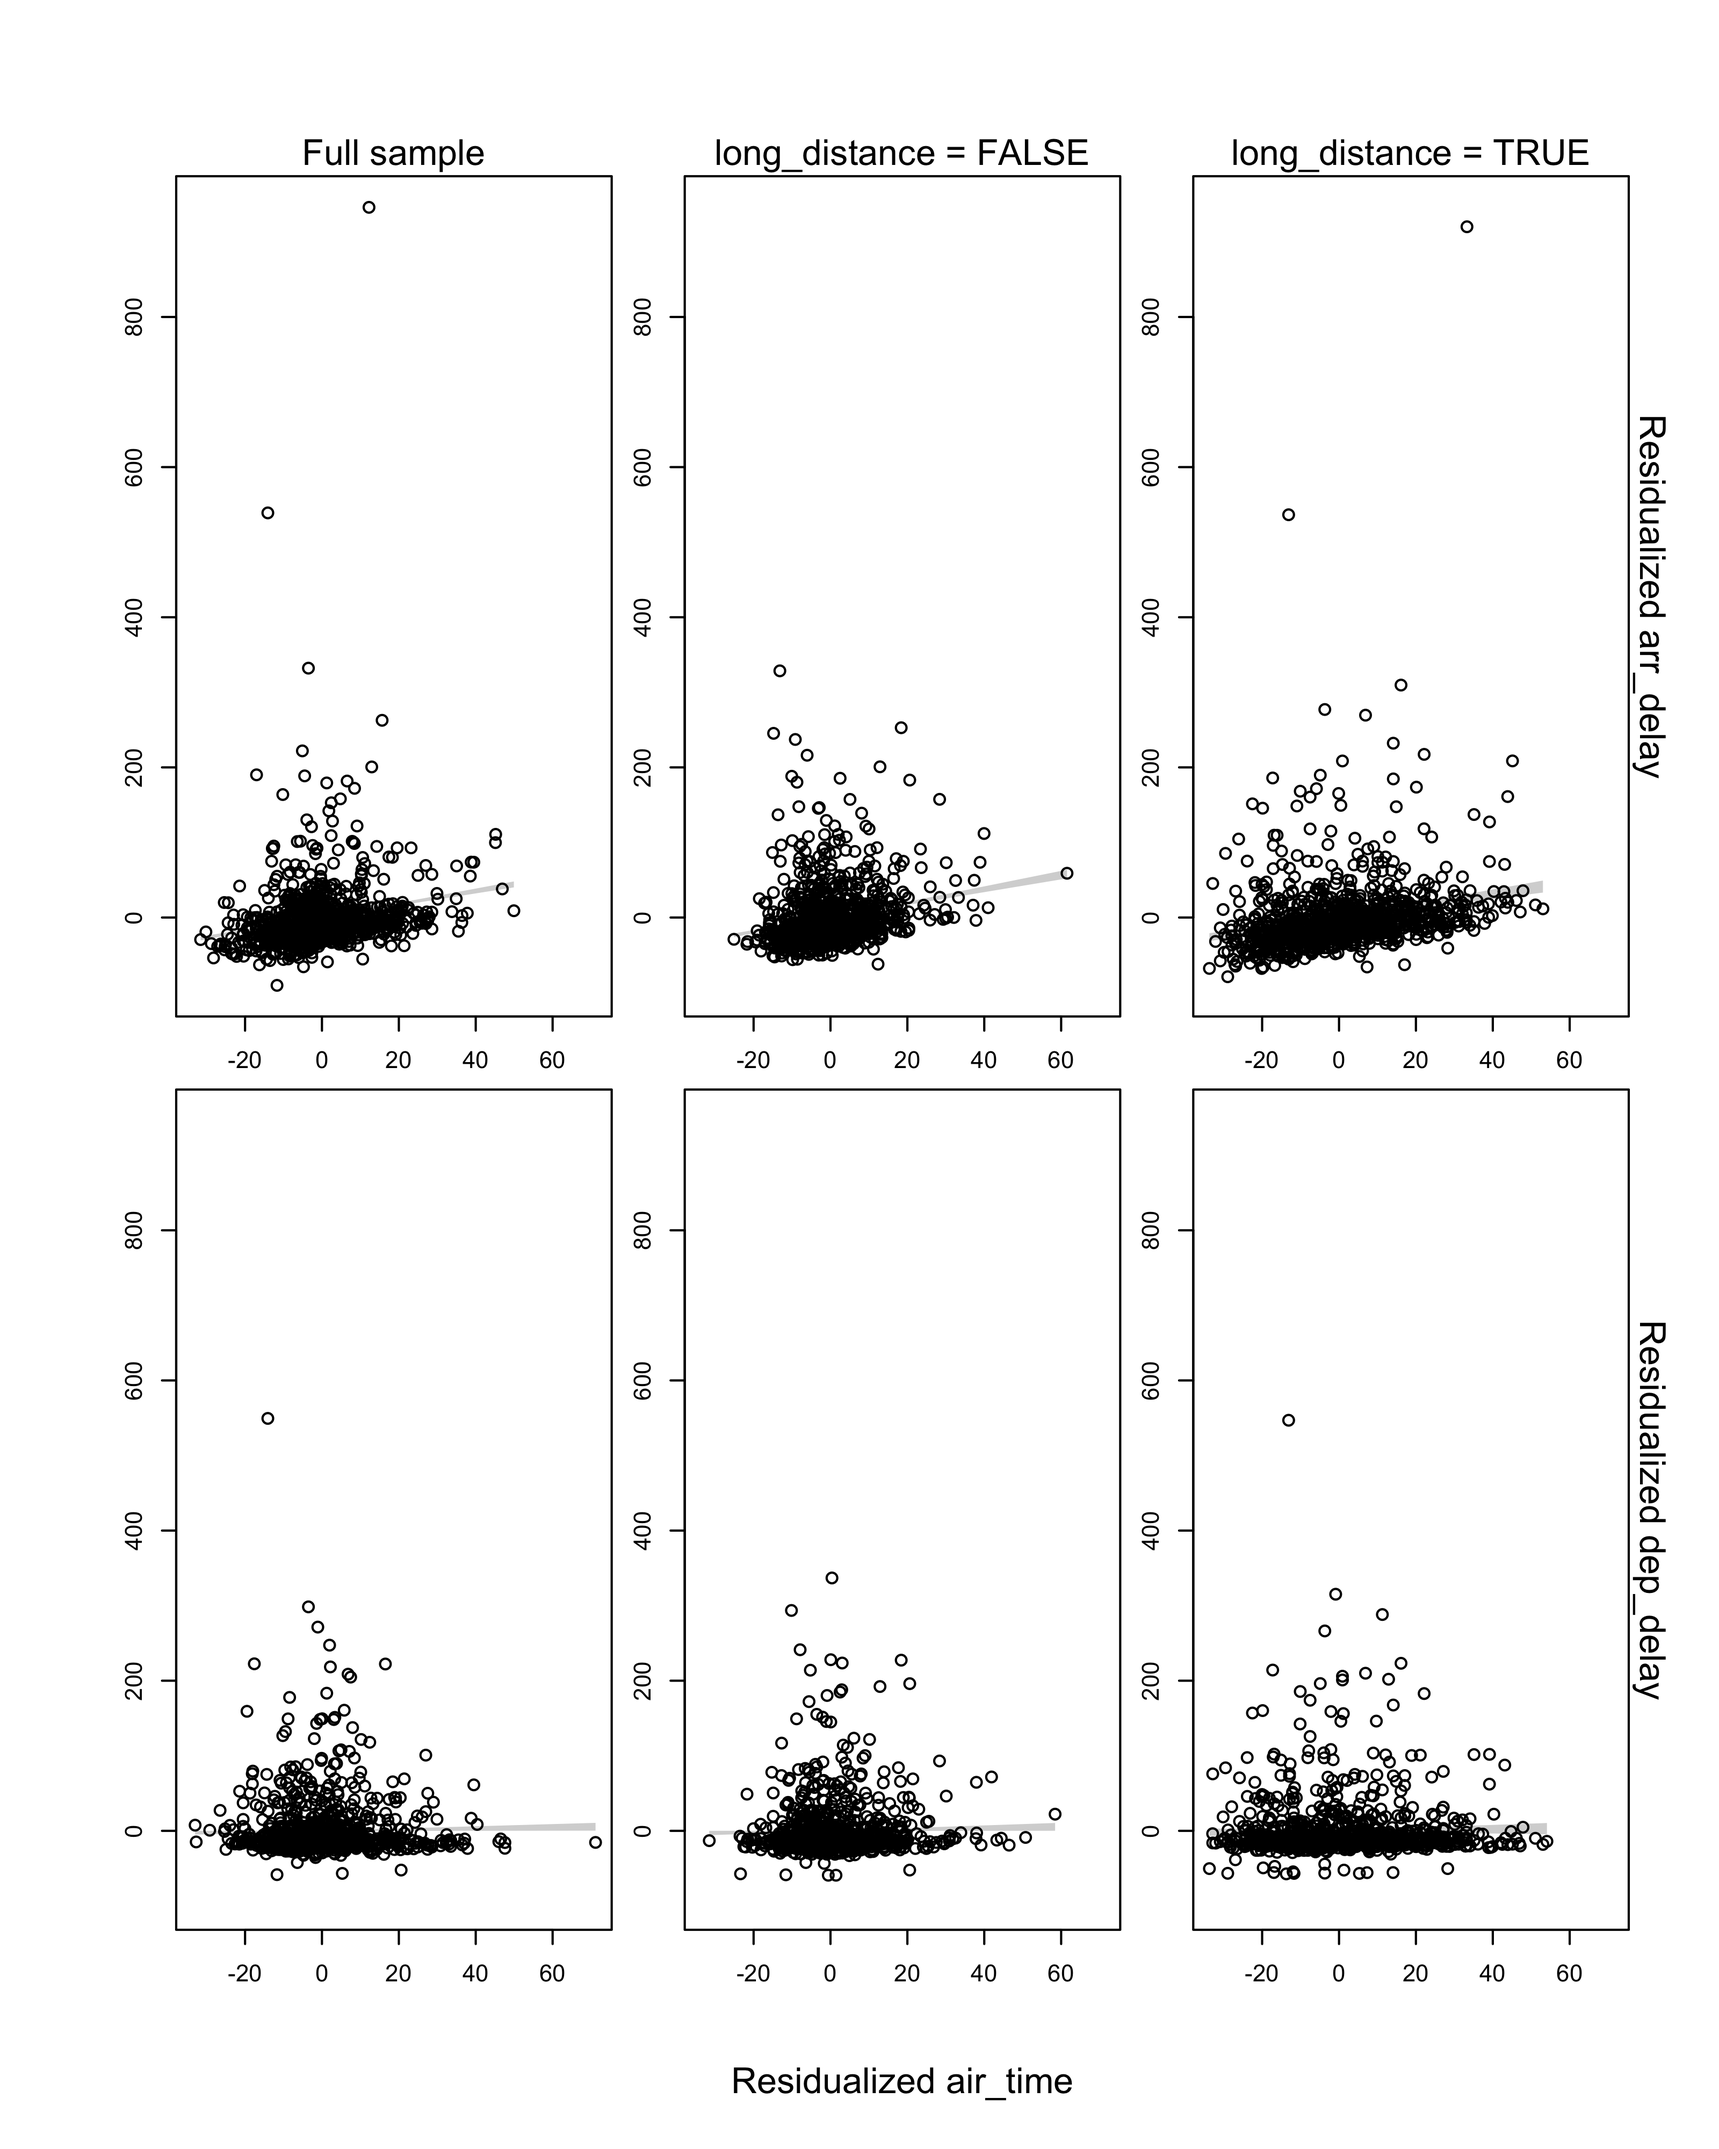
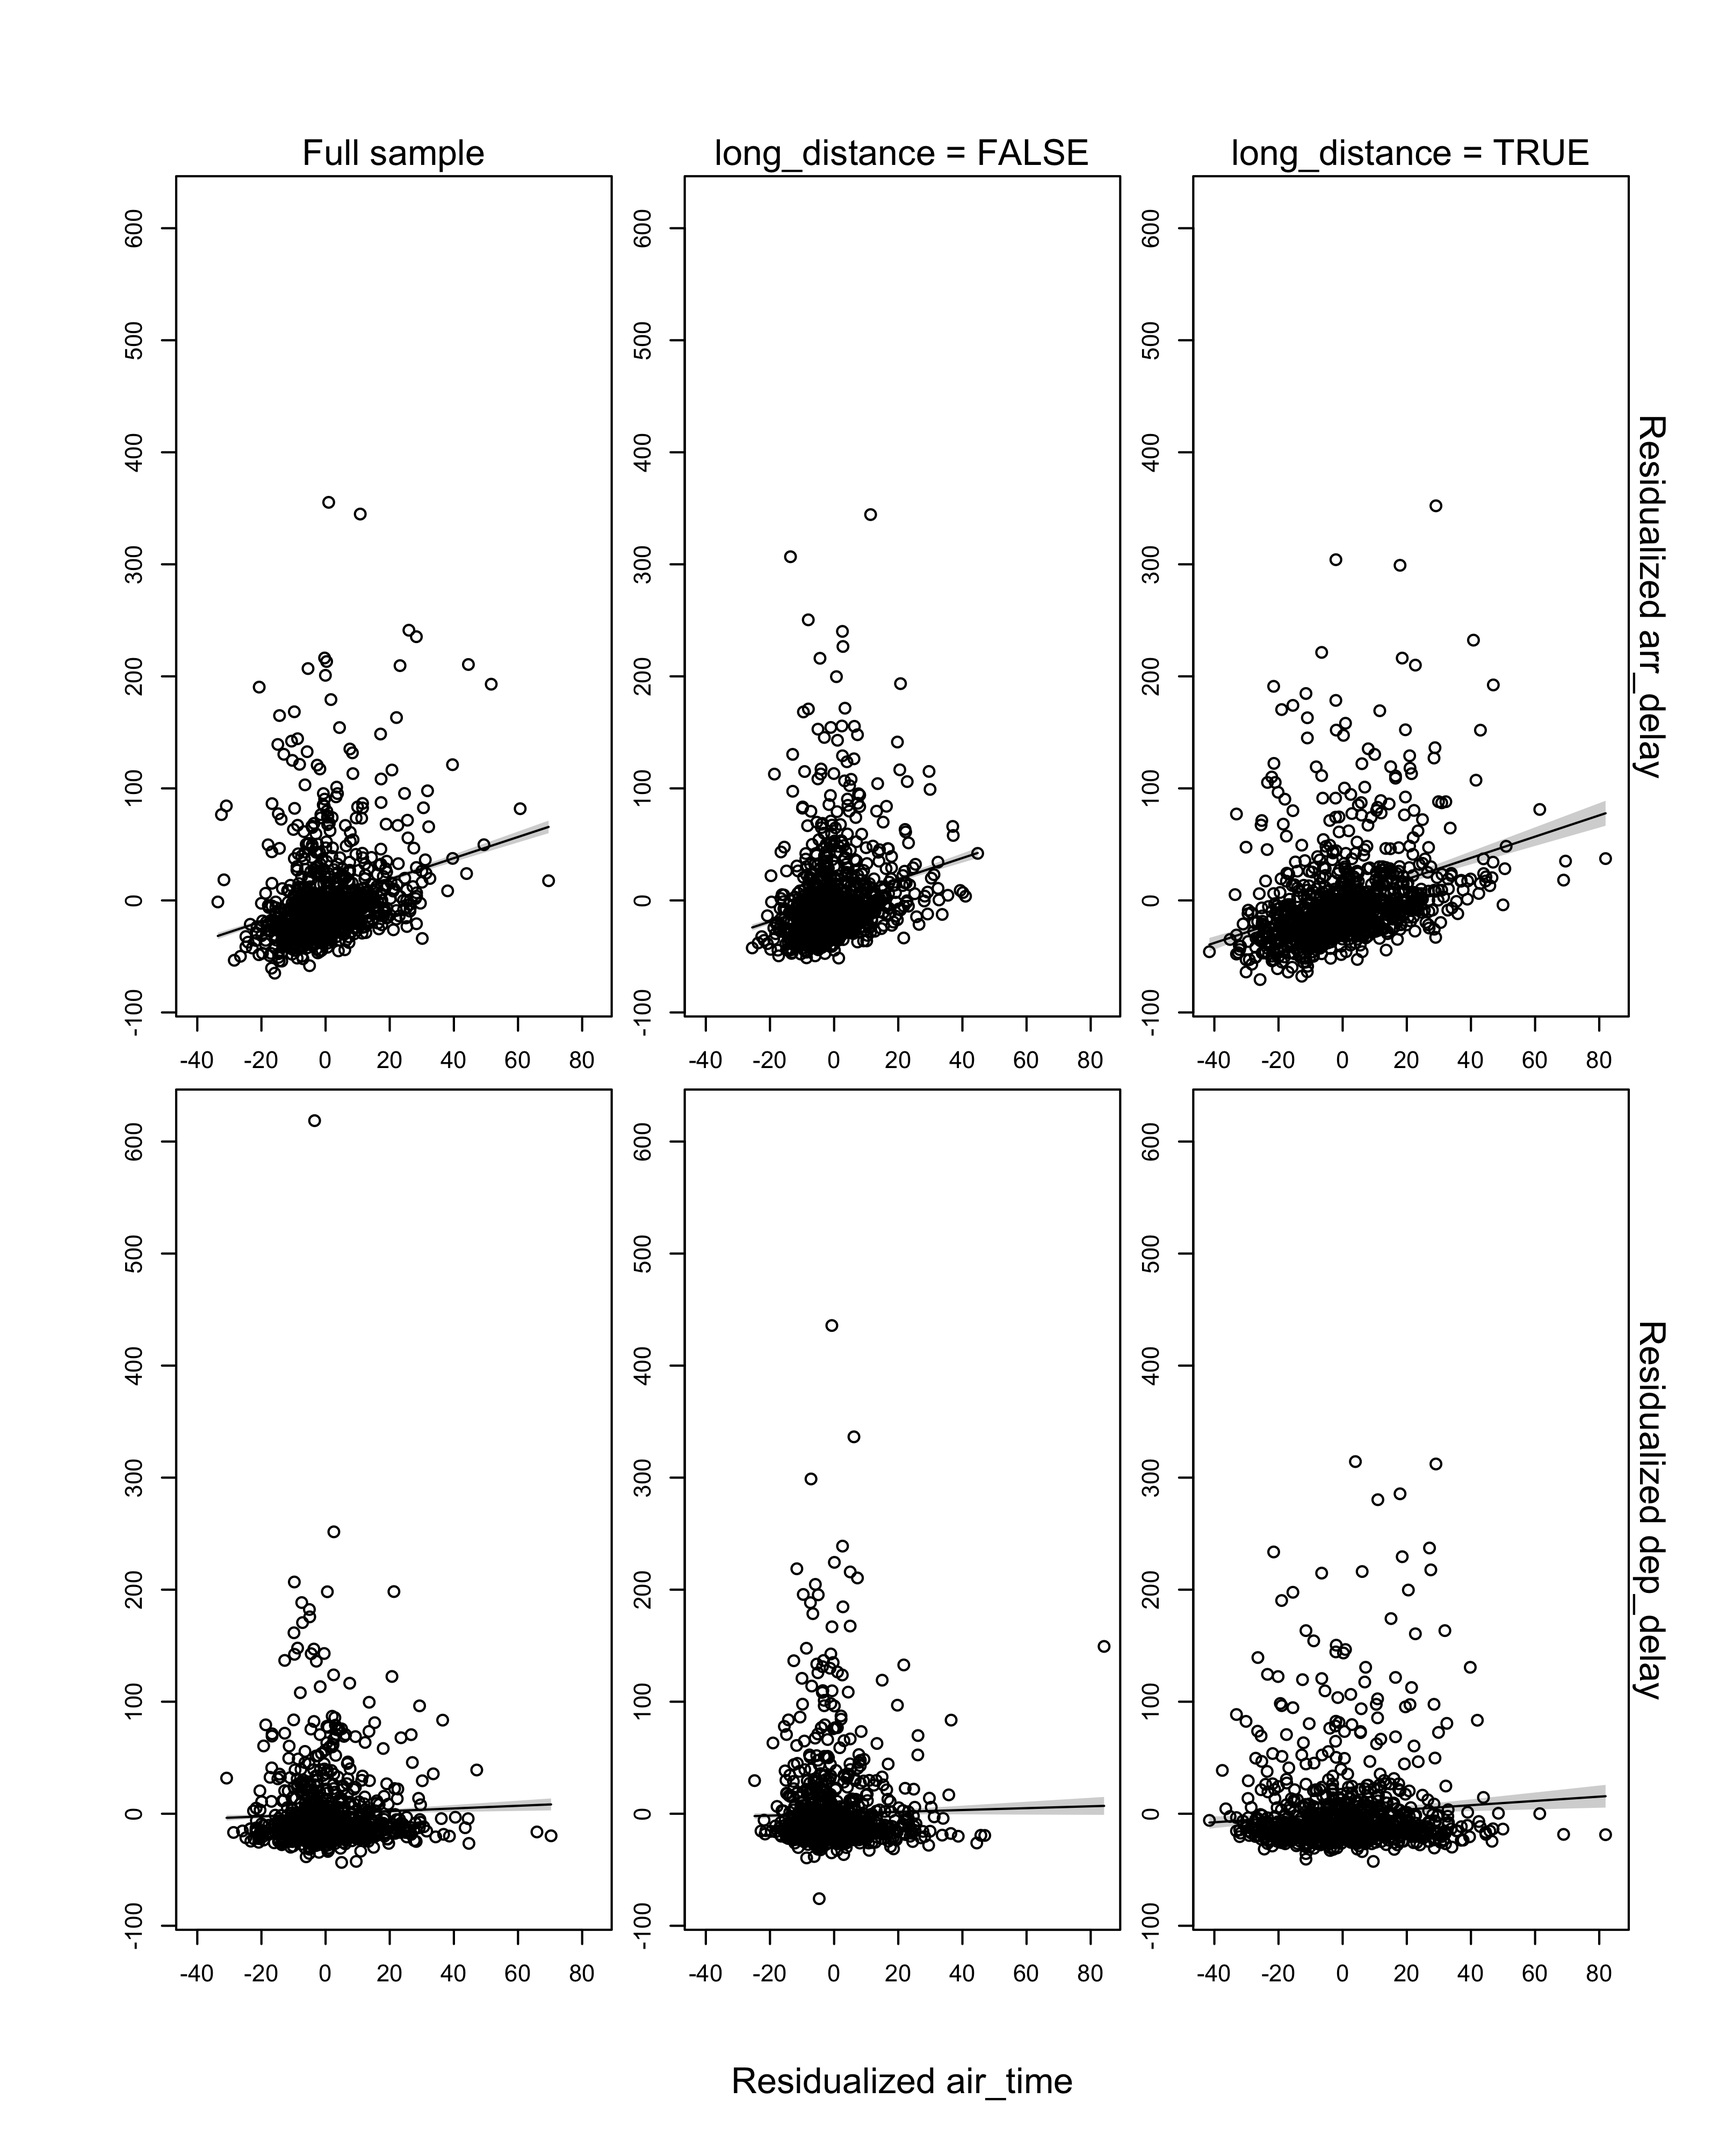
Base r, add back in line of best fit

diff --git a/README.md b/README.md
@@ -78,16 +78,16 @@ feols(
   data = sample, subset = ~long_distance, cluster = ~origin
 )
 #> OLS estimation, Dep. Var.: dep_delay
-#> Observations: 1,769 
+#> Observations: 1,723 
 #> Subset: long_distance 
-#> Fixed-effects: origin: 2,  dest: 15
+#> Fixed-effects: origin: 2,  dest: 14
 #> Standard-errors: Clustered (origin) 
-#>          Estimate Std. Error  t value Pr(>|t|) 
-#> air_time 0.054298   0.161423 0.336374  0.79343 
+#>          Estimate Std. Error t value Pr(>|t|)    
+#> air_time 0.190664   0.021643 8.80955 0.071957 .  
 #> ---
 #> Signif. codes:  0 '***' 0.001 '**' 0.01 '*' 0.05 '.' 0.1 ' ' 1
-#> RMSE: 45.1     Adj. R2: 0.009314
-#>              Within R2: 3.622e-4
+#> RMSE: 41.6     Adj. R2: 0.009444
+#>              Within R2: 0.005488
 ```
 
 ``` r
